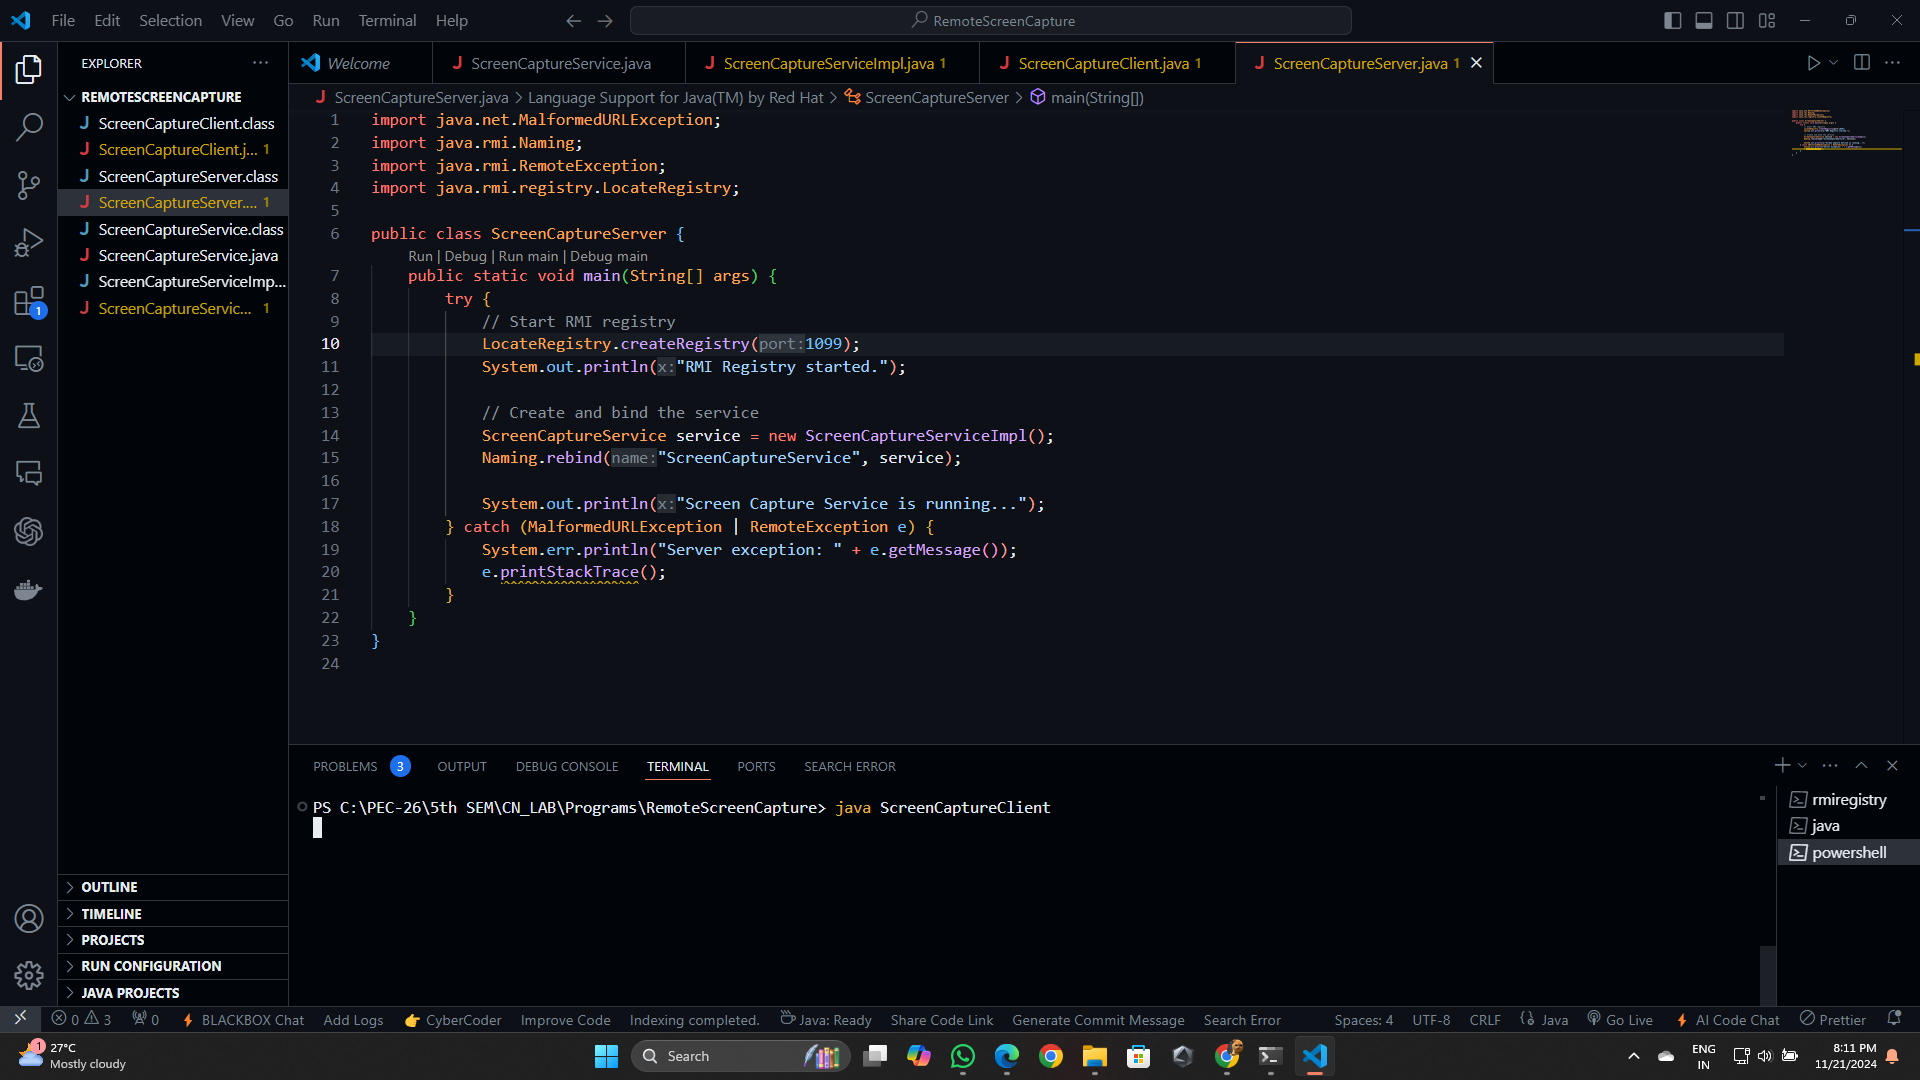
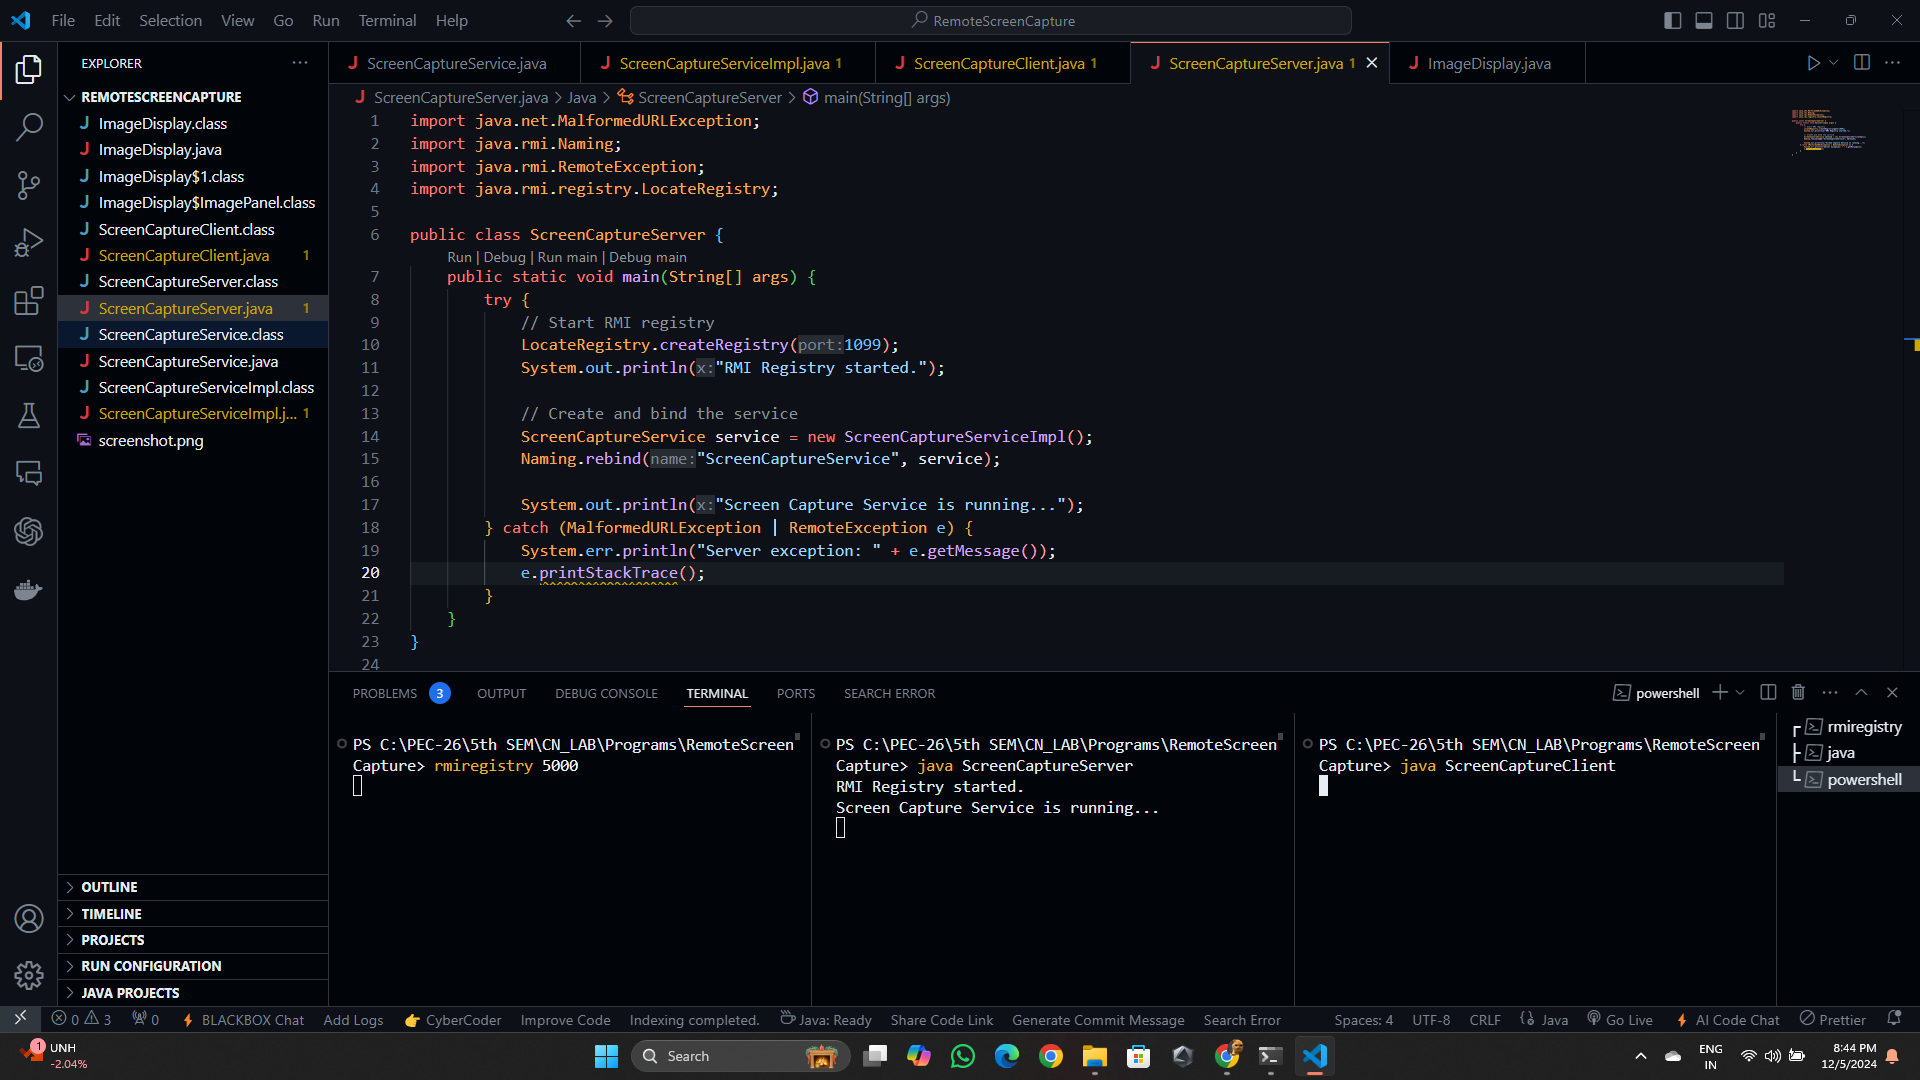
update

diff --git a/Programs/RemoteScreenCapture/ImageDisplay.java b/Programs/RemoteScreenCapture/ImageDisplay.java
@@ -1,0 +1,66 @@
+import java.awt.*;
+import java.awt.image.*;
+import java.io.*;
+import javax.imageio.ImageIO;
+import javax.swing.*;
+
+public class ImageDisplay extends JFrame {
+
+    private BufferedImage image;
+
+    public ImageDisplay(String imagePath) {
+        try {
+            // Load the image from the given path
+            image = ImageIO.read(new File(imagePath));
+        } catch (IOException e) {
+            System.err.println("Error loading image: " + e.getMessage());
+            System.exit(1);
+        }
+
+        // Set JFrame properties
+        setTitle("Image Display");
+        setSize(800, 500); // Initial window size, adjust as needed
+        setDefaultCloseOperation(JFrame.EXIT_ON_CLOSE);
+        setLocationRelativeTo(null); // Center the window
+        
+        // Set the content panel
+        JPanel panel = new ImagePanel();
+        add(panel);
+    }
+
+    private class ImagePanel extends JPanel {
+        @Override
+        protected void paintComponent(Graphics g) {
+            super.paintComponent(g);
+            
+            if (image != null) {
+                // Calculate scaled dimensions
+                int imgWidth = image.getWidth();
+                int imgHeight = image.getHeight();
+                int panelWidth = getWidth();
+                int panelHeight = getHeight();
+
+                double scaleWidth = panelWidth / (double) imgWidth;
+                double scaleHeight = panelHeight / (double) imgHeight;
+                double scale = Math.min(scaleWidth, scaleHeight);
+
+                int scaledWidth = (int) (imgWidth * scale);
+                int scaledHeight = (int) (imgHeight * scale);
+
+                // Draw the scaled image
+                g.drawImage(image, 0, 0, scaledWidth, scaledHeight, this);
+            }
+        }
+    }
+
+    public static void main(String[] args) {
+        // Provide the path to your image file
+        String imagePath = "screenshot.png";
+
+        // Create and display the JFrame
+        SwingUtilities.invokeLater(() -> {
+            ImageDisplay frame = new ImageDisplay(imagePath);
+            frame.setVisible(true);
+        });
+    }
+}

diff --git a/Programs/RemoteScreenCapture/ScreenCaptureClient.java b/Programs/RemoteScreenCapture/ScreenCaptureClient.java
@@ -1,10 +1,11 @@
-import java.rmi.Naming;
-import java.io.FileOutputStream;
-import java.io.ByteArrayInputStream;
-import javax.imageio.ImageIO;
 import java.awt.image.BufferedImage;
+import java.io.ByteArrayInputStream;
+import java.io.FileOutputStream;
 import java.io.IOException;
+import java.rmi.Naming;
 import java.rmi.NotBoundException;
+import javax.imageio.ImageIO;
+
 
 public class ScreenCaptureClient {
     public static void main(String[] args) {
@@ -24,6 +25,10 @@ public class ScreenCaptureClient {
             ImageIO.write(image, "png", fos);
 
             System.out.println("Screenshot saved as 'screenshot.png'");
+
+            ImageDisplay frame = new ImageDisplay("screenshot.png");
+            frame.setVisible(true);
+            
         } catch (IOException | NotBoundException e) {
             System.err.println("Client exception: " + e.getMessage());
             e.printStackTrace();
